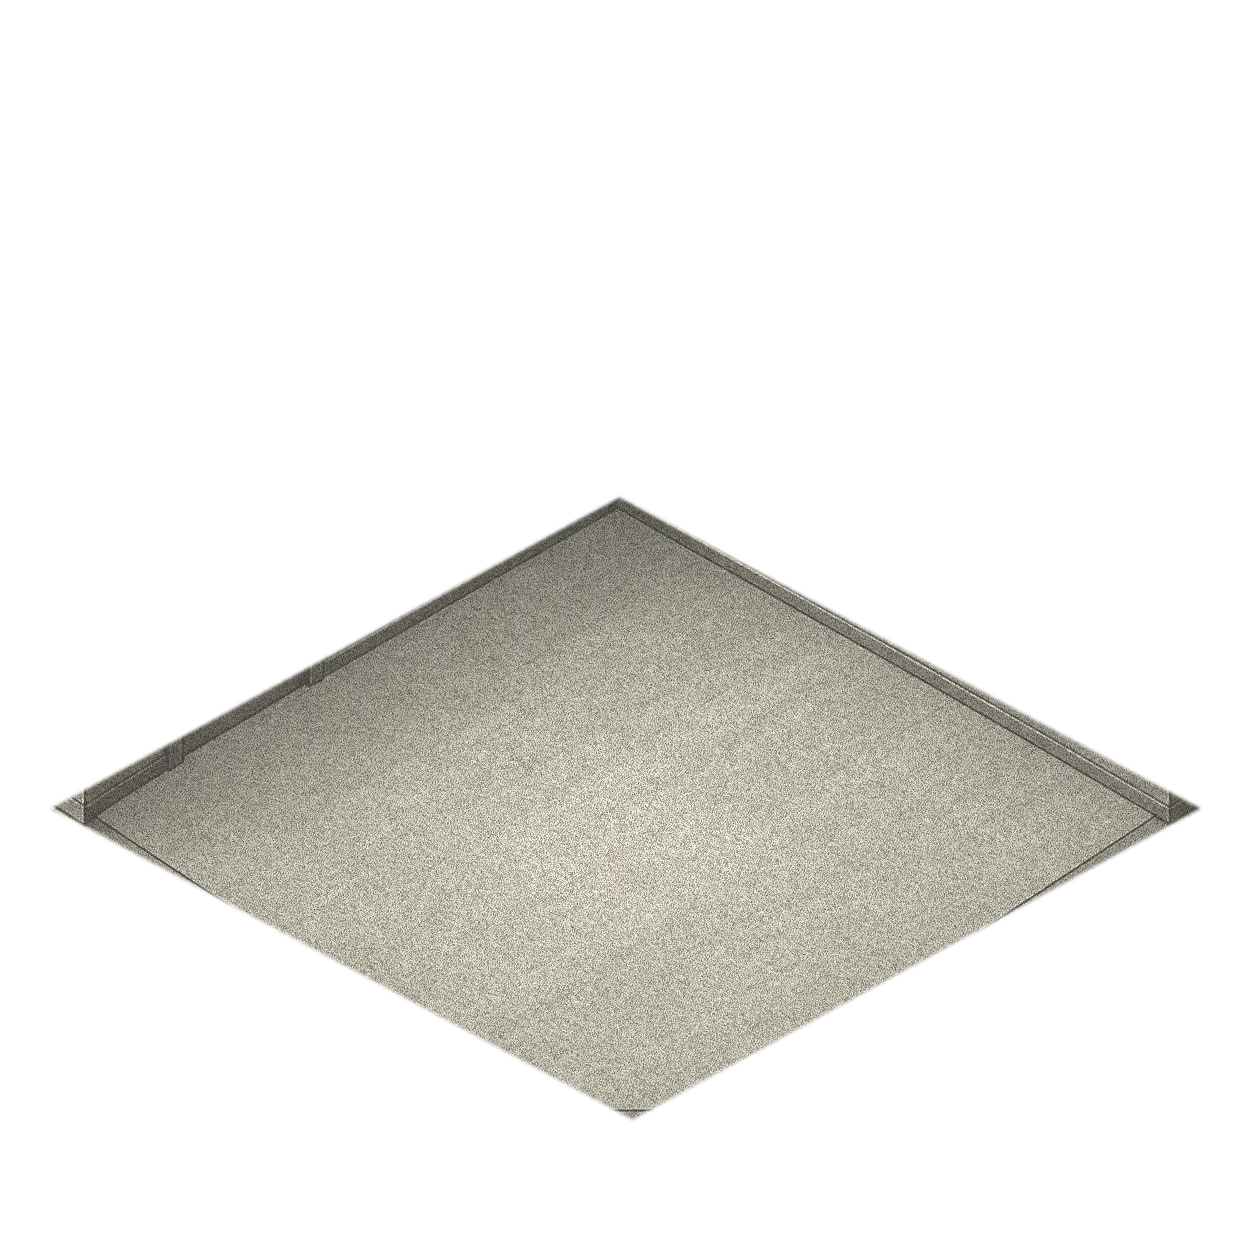
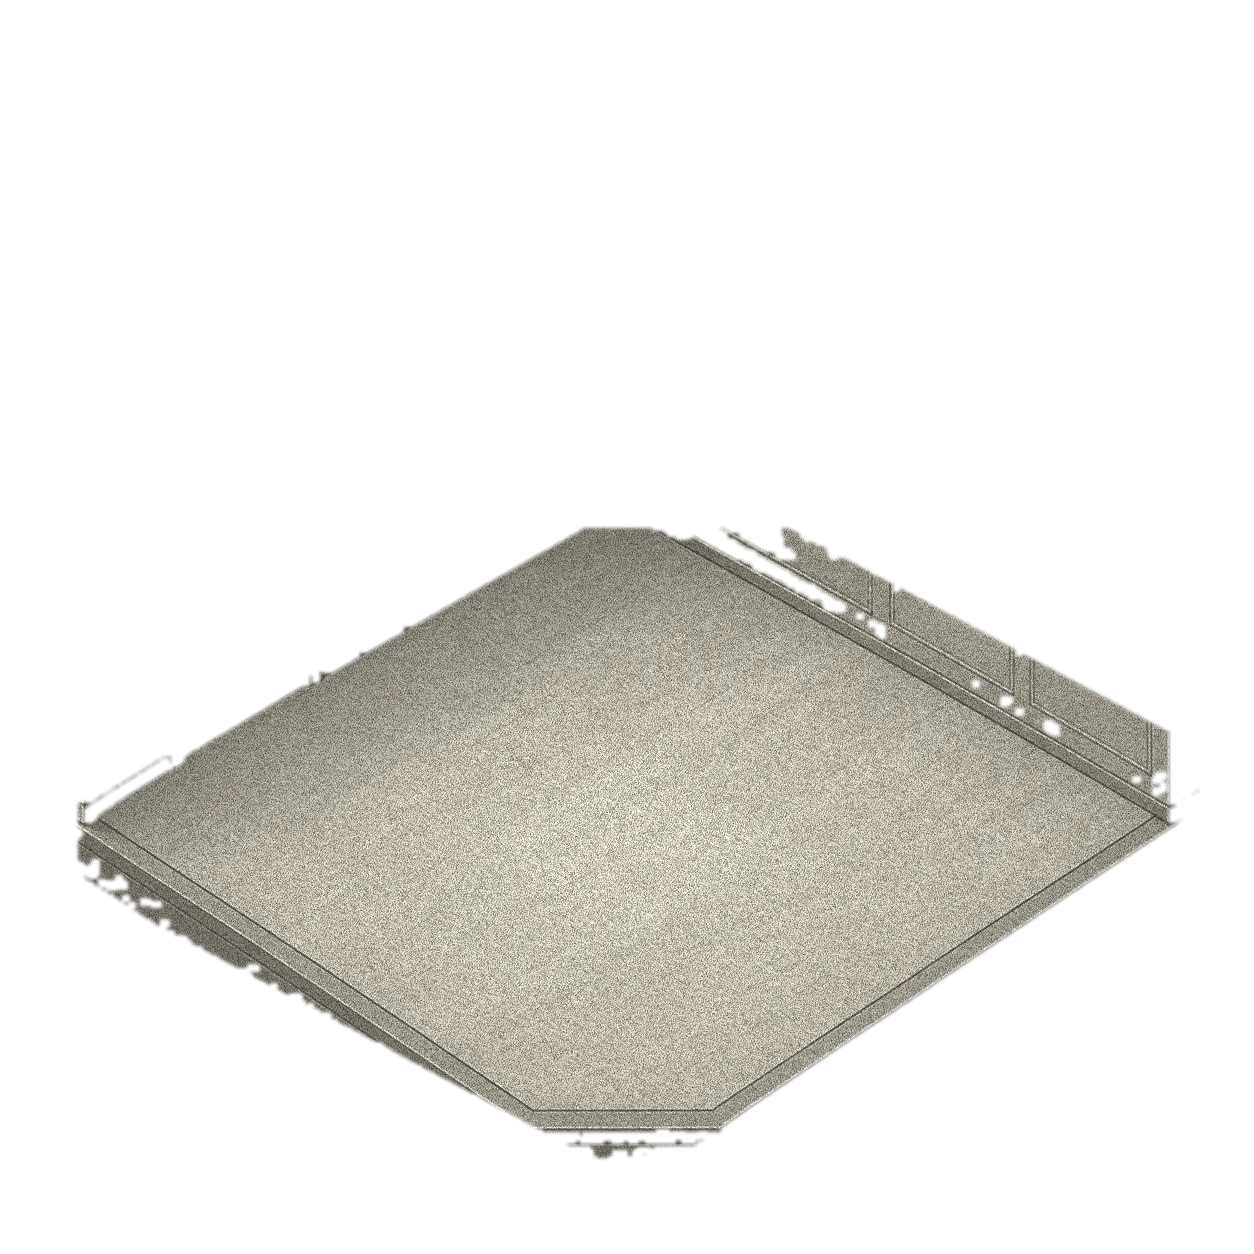
fix: 단계별 문 높이를 실측값으로 바꾸고 바닥 오버레이 구멍을 메움
시뮬레이터 QA에서 두 가지가 드러났다.

고양이가 큰 방에서 너무 컸다
  고양이 크기는 문 높이에서 나오는데, stage0만 실측이고 나머지는 artBounds
  높이에 비례한다고 근사했다. 방이 커질수록 셸이 작게 그려지는 걸 반영하지
  못해 stage4에서 문높이를 2.45배로 잡았다.
  각 셸에서 잰 문 폭에 stage0의 높이/폭 비(2.33)를 곱해 채웠다.
    353 / 276 / 211 / 162 / 107

바닥 오버레이에 구멍이 뚫렸다
  색으로 바닥을 잡아서 그늘진 구석이 빠지고 원래 바닥이 비쳐 보였다.
  칸별 실측 마스크(floor-masks.generated.ts)를 쓰도록 바꿨다.
  가장자리 칸은 나무 테두리에 걸쳐 마스크에서 빠지므로 한 칸만큼 넓힌다.
  여러 칸 깊이인 별관 밖 허공은 넓혀도 메워지지 않는다.

diff --git a/catdex-client/src/features/support-room-v3/render/world-scale.ts b/catdex-client/src/features/support-room-v3/render/world-scale.ts
@@ -17,17 +17,22 @@ import type { RoomStage } from './shells.generated';
  * 각 단계 셸에 그려진 문의 높이(원본 1254px 캔버스 기준).
  *
  * stage0은 아치 꼭대기 y=376, 문지방 중앙 y=729를 직접 재서 353이다.
+ * 나머지는 각 셸에서 잰 문 밑선 길이(문 폭)에 stage0의 높이/폭 비(2.33)를
+ * 곱해서 냈다. 문 그림은 단계가 달라도 같으므로 이 비는 유지된다.
  *
- * ponytail: stage1~4는 아직 재지 않았다. 화면이 stage0만 쓰기 때문이다
- * (IsoRoomSpikeScreen의 STAGE 상수). 그 단계를 열 때 같은 방법으로 재서
- * 이 표만 채우면 되고, 그때까지는 stage0 비율로 근사한다.
+ *   폭 stage0 151.6 · stage1 118.6 · stage2 90.6 · stage3 69.5 · stage4 46.1
+ *
+ * 예전에는 artBounds 높이에 비례한다고 근사했는데, 방이 커질수록 셸이 작게
+ * 그려지는 걸 반영하지 못해 stage4에서 문높이를 2.45배로 잡았다.
+ * 고양이 크기가 여기서 나오므로 고양이가 그만큼 커져 있었다.
  */
-const MEASURED_DOOR_HEIGHT: Partial<Record<RoomStage, number>> = {
+const MEASURED_DOOR_HEIGHT: Record<RoomStage, number> = {
   stage0: 353,
+  stage1: 276,
+  stage2: 211,
+  stage3: 162,
+  stage4: 107,
 };
-
-/** stage0에서 잰 문높이 / artBounds 높이. 미측정 단계의 근사에 쓴다. */
-const DOOR_TO_ART_HEIGHT = 353 / 1100;
 
 /**
  * 앉은 고양이의 키를 문 높이의 몇 배로 볼지.
@@ -67,9 +72,7 @@ export interface WorldScale {
 }
 
 export function createWorldScale(projection: IsoProjection): WorldScale {
-  const measured = MEASURED_DOOR_HEIGHT[projection.stage];
-  const doorSourceH = measured ?? projection.geometry.artBounds.height * DOOR_TO_ART_HEIGHT;
-  const doorH = doorSourceH * projection.scale;
+  const doorH = MEASURED_DOOR_HEIGHT[projection.stage] * projection.scale;
 
   return {
     tileW: projection.tileW,

diff --git a/catdex-client/scripts/make-iso-surface-overlays.py b/catdex-client/scripts/make-iso-surface-overlays.py
@@ -82,18 +82,46 @@ def clean(mask, blur=1.5, grow=3):
     return np.asarray(im.filter(ImageFilter.GaussianBlur(blur))).astype(np.float32) / 255.0
 
 
+def floor_mask_rows(stage):
+    """measure-floor-masks.py가 낸 칸별 바닥 표를 읽는다."""
+    src = open(f'{ROOT}/src/features/support-room-v3/render/floor-masks.generated.ts').read()
+    block = re.search(rf"{stage}: \[(.*?)\],\n", src, re.S).group(1)
+    return re.findall(r"'([.X]+)'", block)
+
+
 def build_stage(stage, g, voids):
     shell_img = Image.open(f'{SHELLS}/{stage}.webp').convert('RGBA')
     shell = np.asarray(shell_img).astype(np.float32)
     H, W = shell.shape[:2]
     rgb, alpha = shell[..., :3], shell[..., 3]
+    r, gg, b = rgb[..., 0], rgb[..., 1], rgb[..., 2]
     lum = 0.299 * rgb[..., 0] + 0.587 * rgb[..., 1] + 0.114 * rgb[..., 2]
 
     u, v = grid_coords(g, H, W)
-    inside = (u >= 0) & (u <= g['cols']) & (v >= 0) & (v <= g['rows']) & (alpha > 32)
-    for rect in voids:
-        inside &= ~((u >= rect['x']) & (u < rect['x'] + rect['width']) &
-                    (v >= rect['y']) & (v < rect['y'] + rect['depth']))
+    # 바닥은 색이 아니라 칸별 실측 표로 정한다. 색으로 잡으면 그늘진 구석에
+    # 구멍이 뚫려 원래 바닥이 비쳐 보인다(실기에서 그렇게 보였다).
+    rows = floor_mask_rows(stage)
+    cell_x = np.clip(np.floor(u).astype(np.int32), 0, g['cols'] - 1)
+    cell_y = np.clip(np.floor(v).astype(np.int32), 0, g['rows'] - 1)
+    table = np.array([[c == '.' for c in row] for row in rows])
+    inside = (
+        (u >= 0) & (u < g['cols']) & (v >= 0) & (v < g['rows'])
+        & (alpha > 32) & table[cell_y, cell_x]
+    )
+    # 가장자리 칸은 나무 테두리에 걸쳐 마스크에서 빠진다. 그대로 두면 방
+    # 둘레에 원래 바닥이 띠처럼 남는다. 한 칸만큼 넓혀서 테두리까지 덮되,
+    # 여러 칸 깊이인 별관 밖 허공은 그대로 비워 둔다.
+    grow_px = int(max(abs(g['axx']), abs(g['ayx'])) * 1.2)
+    inside = np.asarray(
+        Image.fromarray((inside * 255).astype(np.uint8)).filter(ImageFilter.MaxFilter(3)),
+    ) > 127
+    for _ in range(max(1, grow_px // 2)):
+        inside = np.asarray(
+            Image.fromarray((inside * 255).astype(np.uint8)).filter(ImageFilter.MaxFilter(3)),
+        ) > 127
+    # 넓히더라도 셸 밖(투명)과 벽 위로는 나가지 않는다.
+    wood = (r > 150) & (gg > 80) & (b < 190) & ((r - b) > 45)
+    inside = inside & (alpha > 32) & wood
     floor_alpha = clean(inside.astype(np.float32))
 
     # 벽: 크림색 상단.
